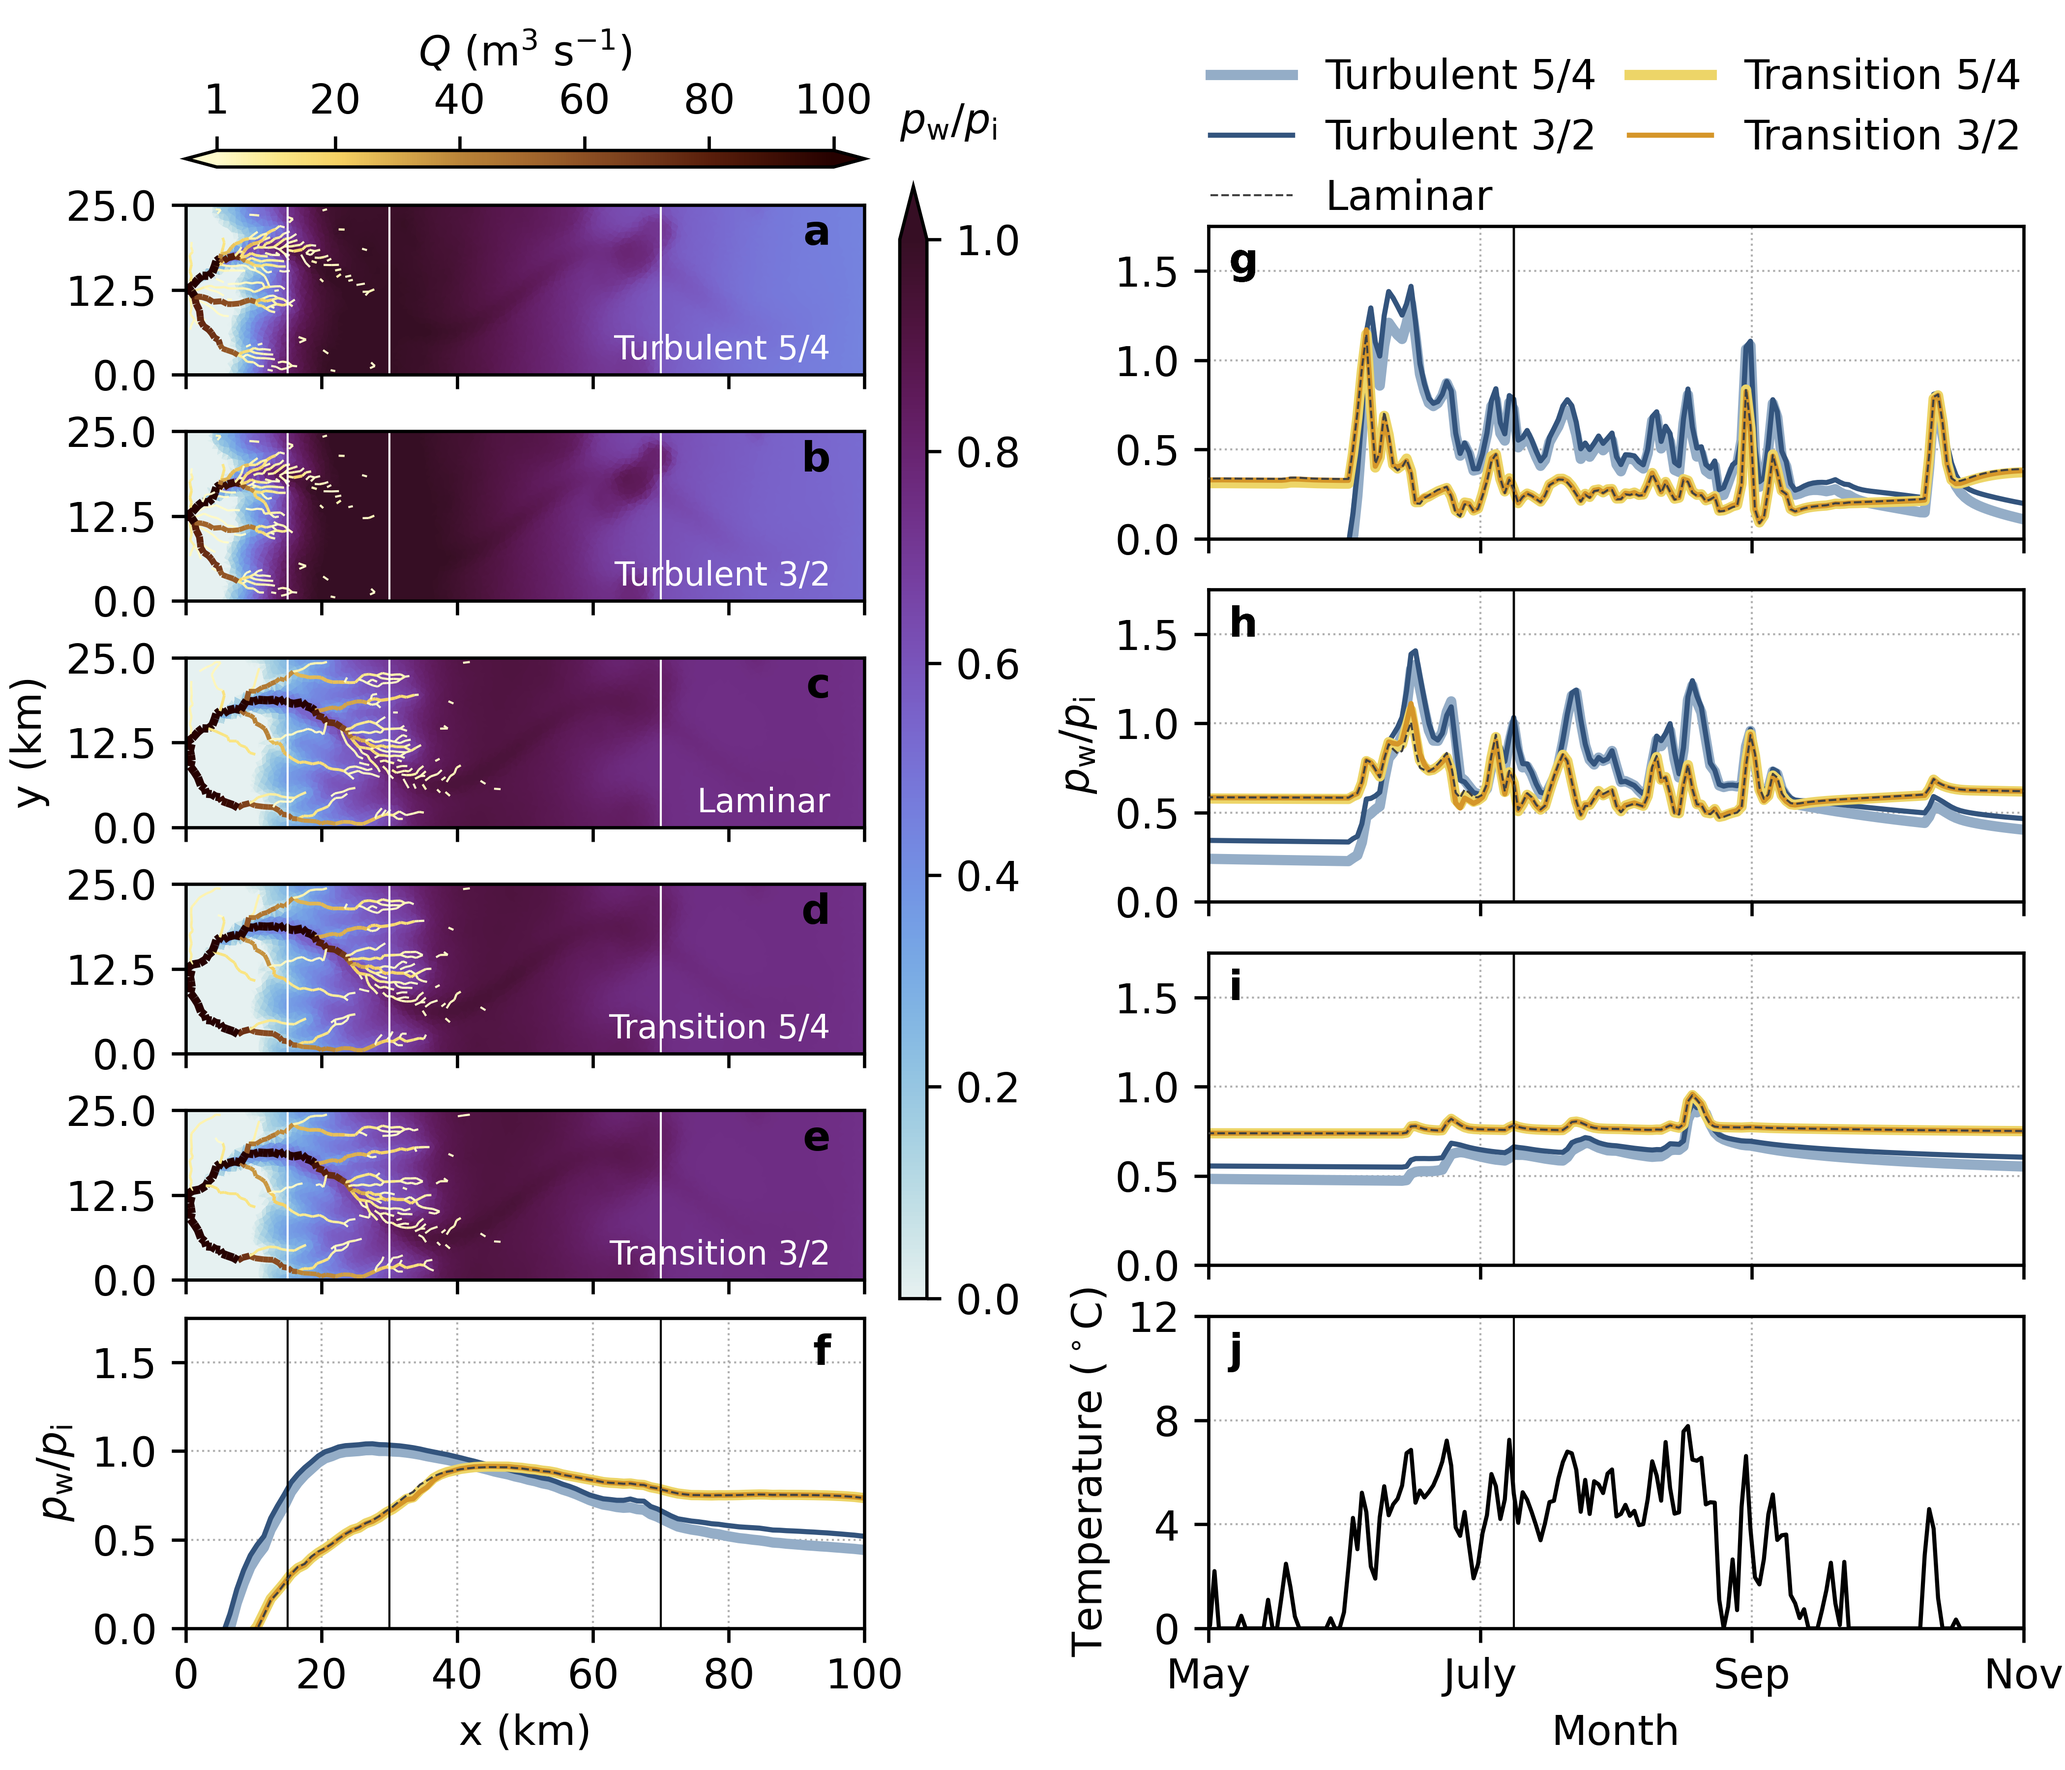
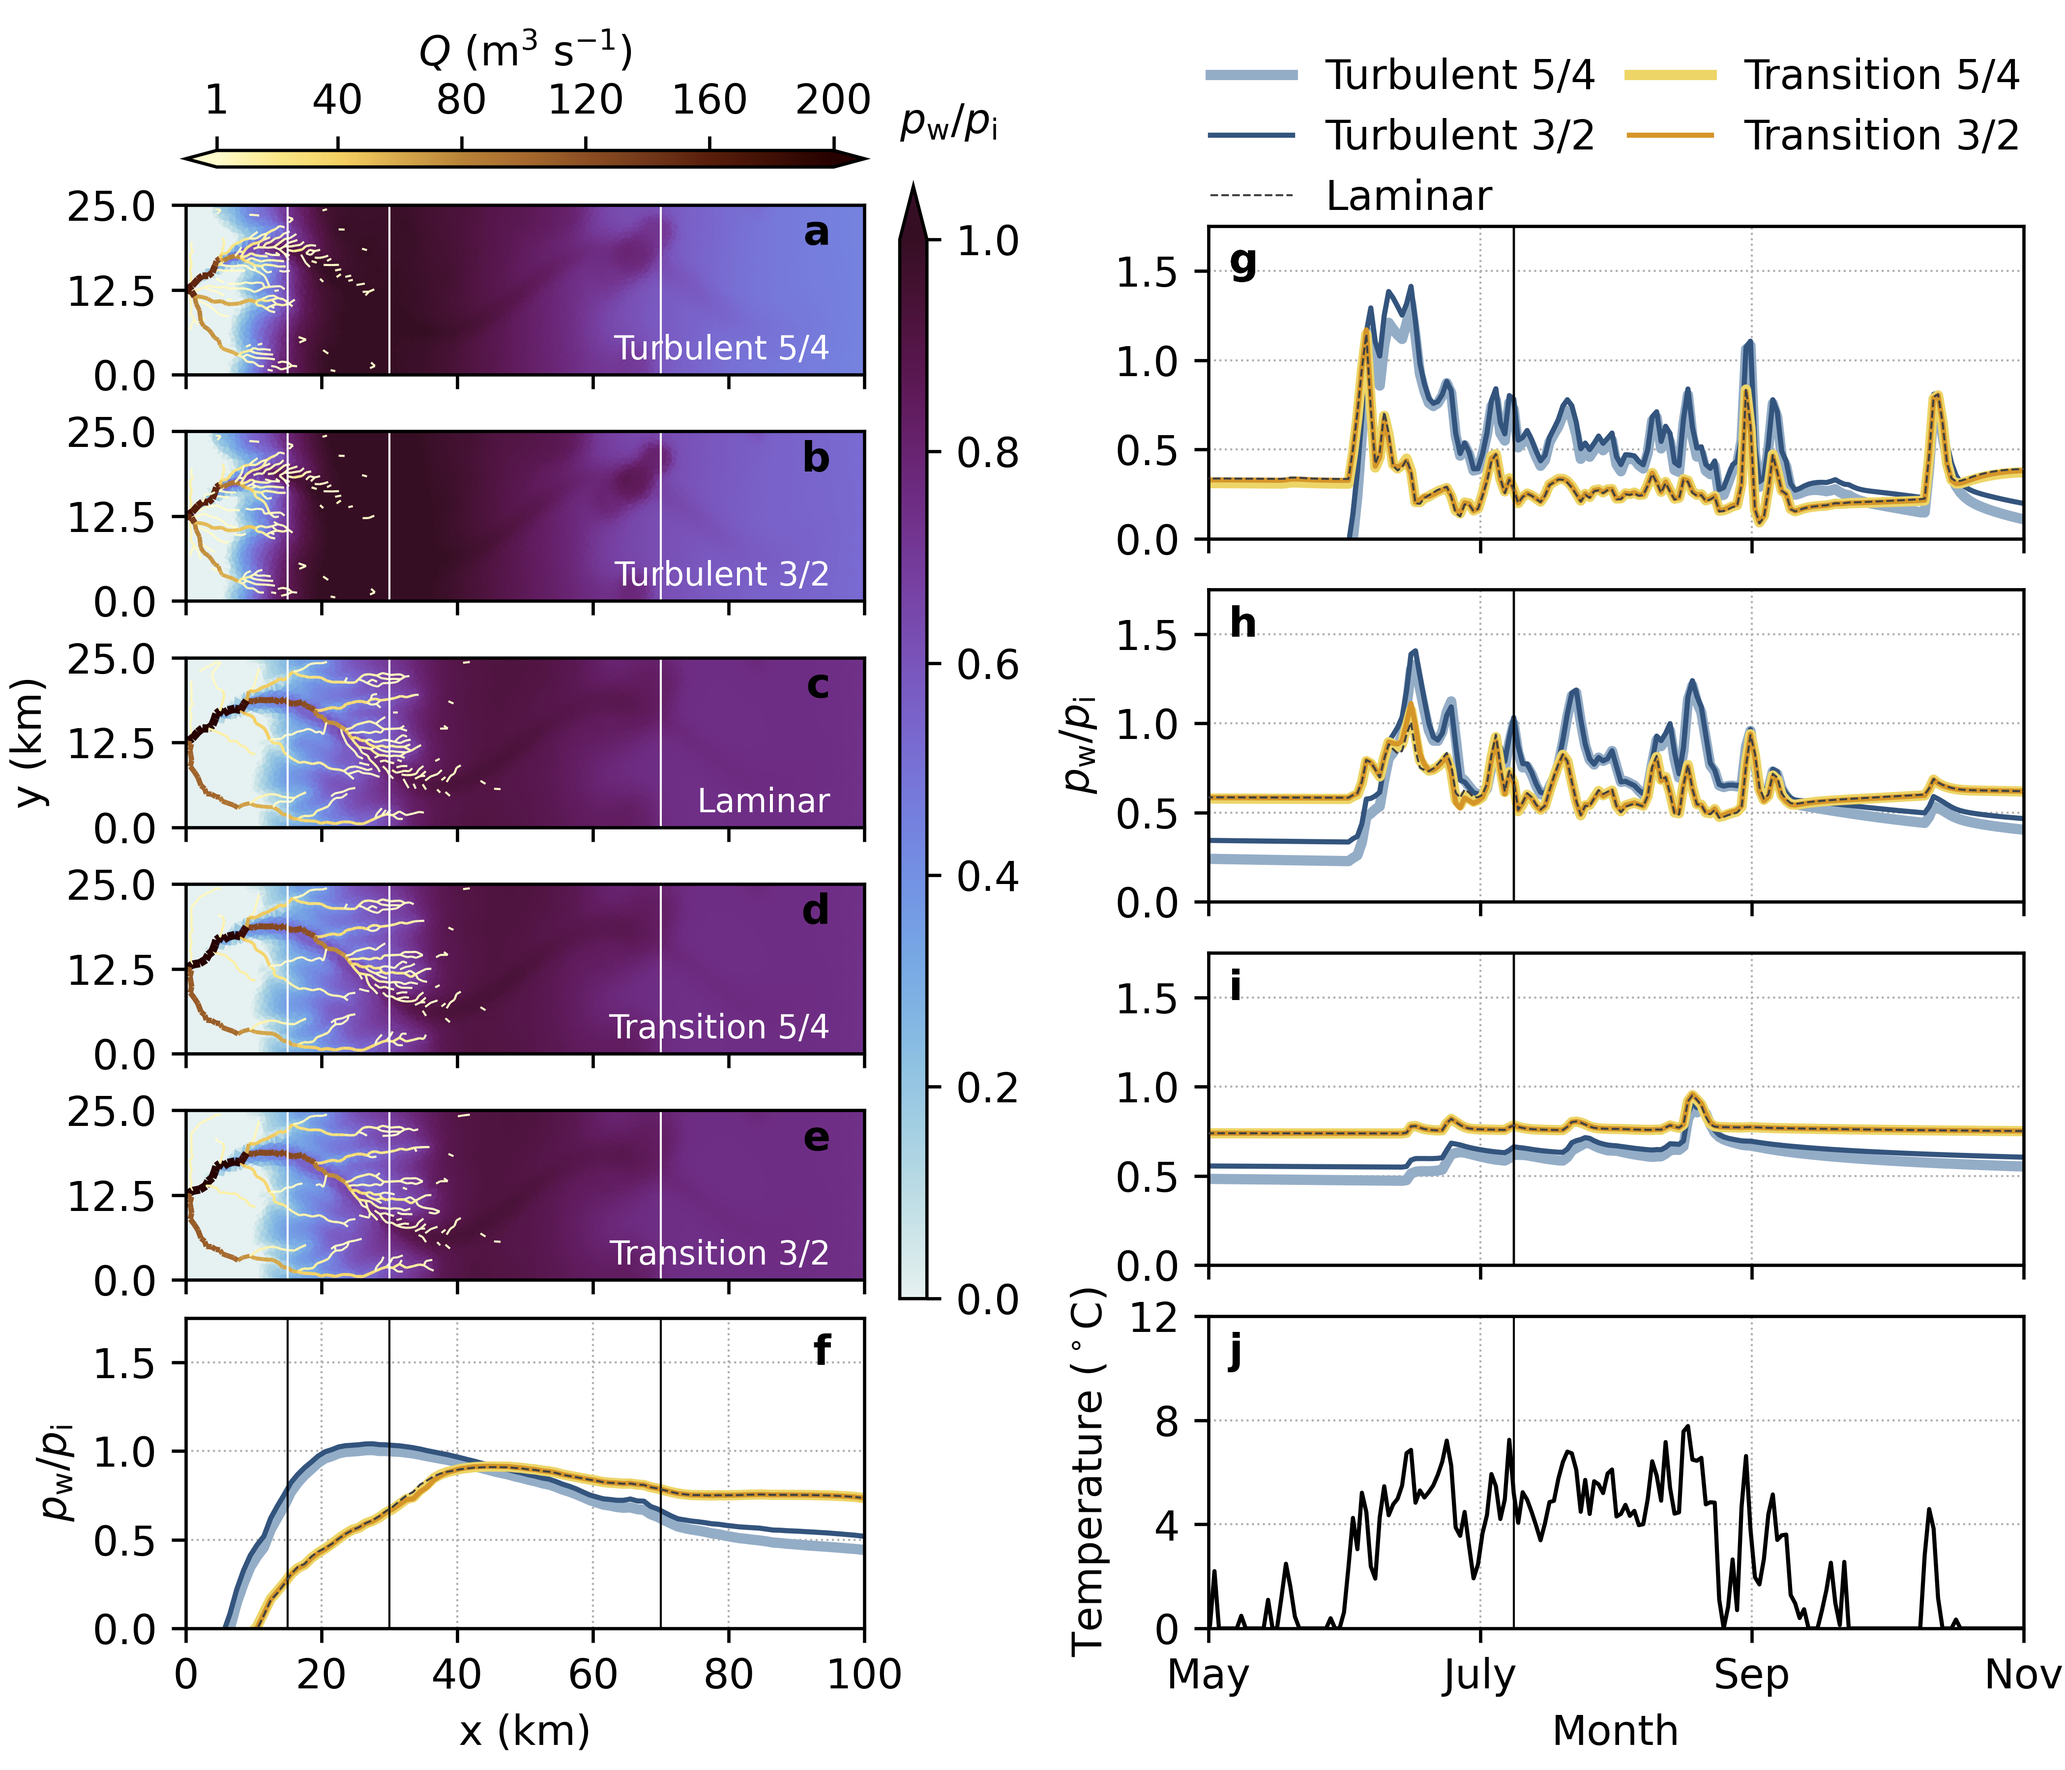
XLim

diff --git a/analysis/make_pressure_figs.py b/analysis/make_pressure_figs.py
@@ -149,7 +149,7 @@ cases = [1, 2, 3, 4, 5]
 pattern = '../glads/_dev_03c_kan_forcing_trough2/RUN/output_%03d_seasonal.nc'
 fnames = [pattern % caseid for caseid in cases]
 figname = '03c_pressure_seasonal_trough2.png'
-fig_03c = plot_pressure_maps_timeseries(fnames, figname, Qmin=1, Qmax=100, melt_forcing='KAN',
+fig_03c = plot_pressure_maps_timeseries(fnames, figname, Qmin=1, Qmax=200, melt_forcing='KAN',
     t_ticklabels=t_ticklabels, t_xlabel=t_xlabel, t_ticks=t_ticks, t_lim=t_lim,
     ff_ylim=[0,1.75], ff_yticks=[0, 0.5, 1, 1.5])
 
